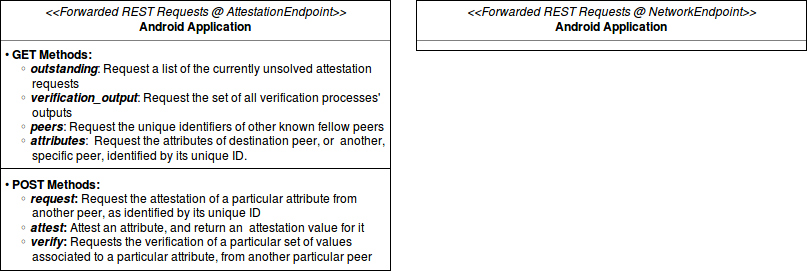
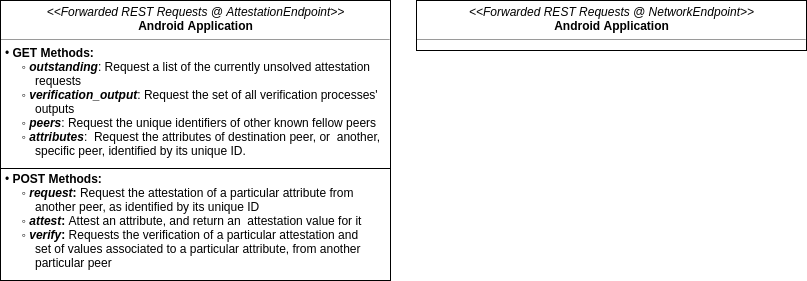
Made some slight modifications to the diagrams and the text, concerning the verification operation.

Changed region(s): [[0.0, 0.0, 0.4957, 0.9742], [0.4957, 0.0, 1.0, 0.2066]]

diff --git a/README.md b/README.md
@@ -77,11 +77,11 @@ Below, a detailed explanation of the REST Requests is presented:
 		
 		* `attribute_value = <b64_attribute_value>`: Base64 encoded attested value for the attribute.
 	
-	* **`type = "verify"`**: Request the verification of a particular set of values associated to a particular attribute, from another particular peer. ** *Required additional parameters* **:
+	* **`type = "verify"`**: Request the verification of a particular attestation and set of values associated to a particular attribute, from another particular peer. ** *Required additional parameters* **:
 		
 		* `mid = <b64_peer_mid>`: Identifies the peer (by its unique ID) from which the attestation is requested.
 		
-		* `attribute_hash = <b64_attribute_hash>`: A Base64 encoded hash of the attribute.
+		* `attribute_hash = <b64_attribute_hash>`: A Base64 encoded hash of the attribute's particular attestation, subject to verification.
 		
 		* `attribute_values = <b64_attribute_values_string>`: A variable length list of Base64 encoded attribute values, for which verification is required. `<b64_attribute_values_string>` is a comma separated string of values, that is: `<b64_attribute_values_string> = "<b64_attr_val_1>,<b64_attr_val_2>,...,<b64_attr_val_N>"`, where `N` may be arbitrarily large.    
 	
